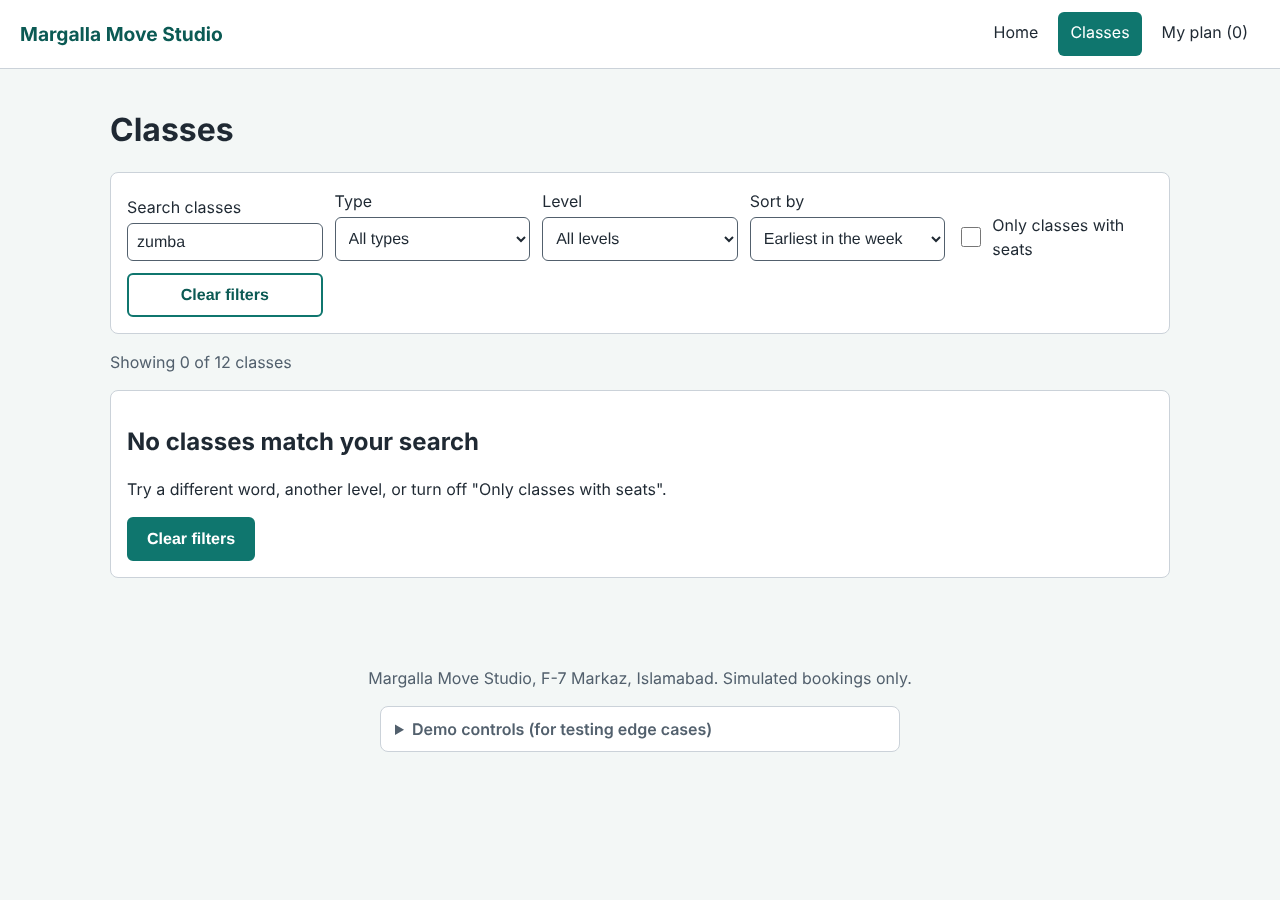
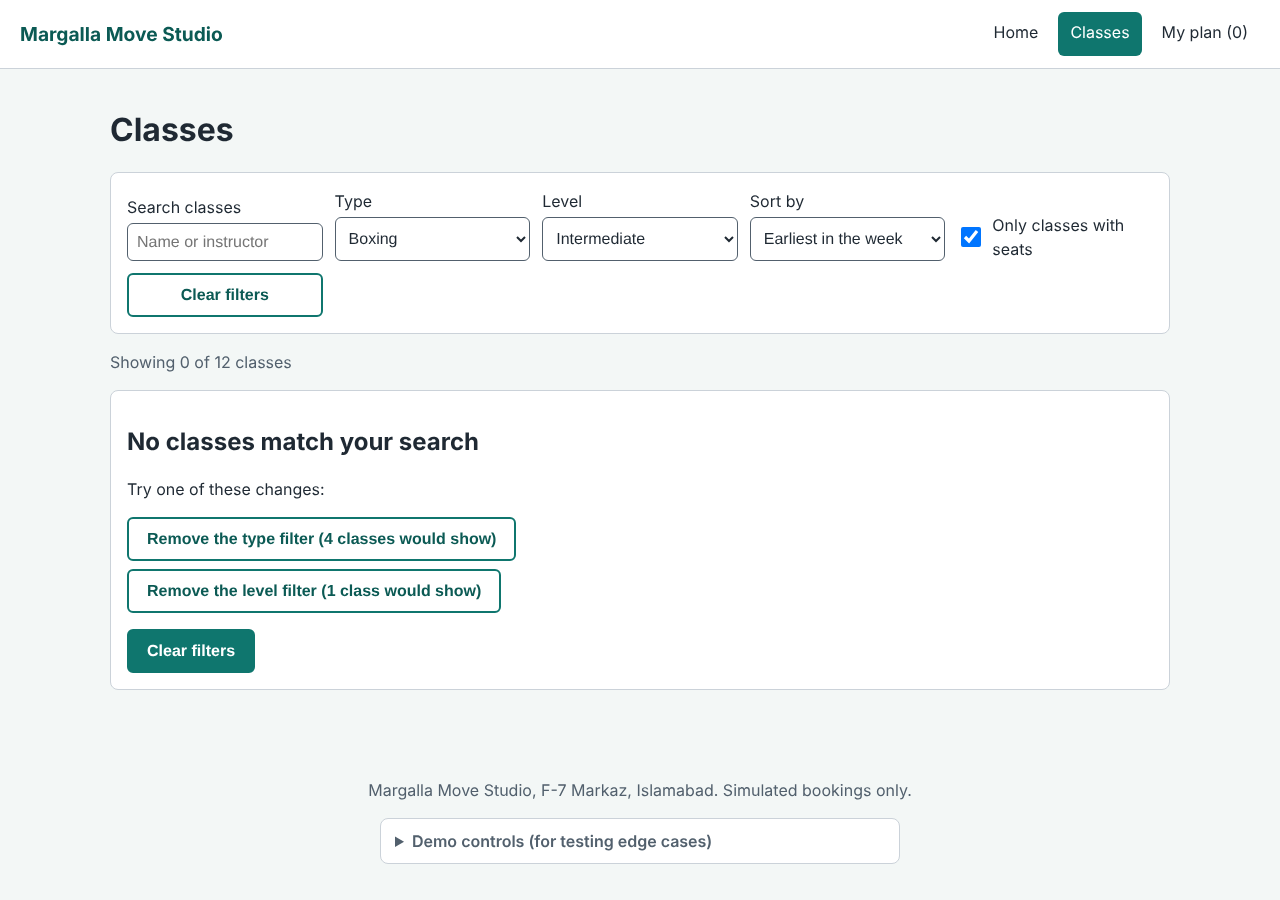
Empty results now offer ways forward; decisions use CorePower Yoga evidence

diff --git a/src/pages/Classes.jsx b/src/pages/Classes.jsx
@@ -3,7 +3,7 @@ import ClassCard from "../components/ClassCard.jsx";
 import SearchControls from "../components/SearchControls.jsx";
 import StatusMessage from "../components/StatusMessage.jsx";
 import { useStudio } from "../context/StudioContext.jsx";
-import { getVisibleClasses } from "../utils/listing.js";
+import { getRelaxSuggestions, getVisibleClasses } from "../utils/listing.js";
 
 function readOptions(params) {
   return {
@@ -56,6 +56,7 @@ function Classes() {
 
   const visible = getVisibleClasses(classes, options);
   const linkState = { from: location.search };
+  const suggestions = getRelaxSuggestions(classes, options);
 
   return (
     <section>
@@ -76,7 +77,16 @@ function Classes() {
       {classes.length > 0 && visible.length === 0 && (
         <div className="notice">
           <h2>No classes match your search</h2>
-          <p>Try a different word, another level, or turn off "Only classes with seats".</p>
+          <p>Try one of these changes:</p>
+          <ul>
+            {suggestions.map((suggestion) => (
+              <li key={suggestion.name}>
+                <button type="button" className="button button-secondary" onClick={() => changeOption(suggestion.name, "")}>
+                  Remove the {suggestion.label} ({suggestion.count === 1 ? "1 class" : suggestion.count + " classes"} would show)
+                </button>
+              </li>
+            ))}
+          </ul>
           <button type="button" className="button" onClick={clearFilters}>
             Clear filters
           </button>

diff --git a/src/utils/listing.js b/src/utils/listing.js
@@ -51,3 +51,26 @@ export function getVisibleClasses(list, options) {
   result = filterByAvailable(result, options.onlyAvailable);
   return sortClasses(result, options.sort);
 }
+
+export function getRelaxSuggestions(list, options) {
+  const suggestions = [];
+
+  if (options.q !== "") {
+    const count = getVisibleClasses(list, { ...options, q: "" }).length;
+    suggestions.push({ name: "q", label: "search text", count });
+  }
+  if (options.category !== "") {
+    const count = getVisibleClasses(list, { ...options, category: "" }).length;
+    suggestions.push({ name: "category", label: "type filter", count });
+  }
+  if (options.level !== "") {
+    const count = getVisibleClasses(list, { ...options, level: "" }).length;
+    suggestions.push({ name: "level", label: "level filter", count });
+  }
+  if (options.onlyAvailable) {
+    const count = getVisibleClasses(list, { ...options, onlyAvailable: false }).length;
+    suggestions.push({ name: "open", label: "seats filter", count });
+  }
+
+  return suggestions.filter((suggestion) => suggestion.count > 0);
+}

diff --git a/src/styles/base.css b/src/styles/base.css
@@ -482,3 +482,12 @@ input[type="checkbox"] {
     margin-top: 6px;
   }
 }
+
+.notice li {
+  margin-bottom: 8px;
+  list-style: none;
+}
+
+.notice ul {
+  padding-left: 0;
+}

diff --git a/DECISIONS.md b/DECISIONS.md
@@ -2,23 +2,23 @@
 
 Business: Margalla Move Studio (fitness class booking, Islamabad).
 
-## Decision 1: Keep search, filters and sorting in the URL (interaction and state)
+## Decision 1: Empty results offer a way forward (interaction and state)
 
 | Field | Content |
 | --- | --- |
-| Problem | After opening a class and going back, the list resets and the customer loses their search and filters. |
-| Decision | Search text, type, level, "only classes with seats" and sort are stored in the URL query string with `useSearchParams`. The details link remembers the query and "Back to classes" returns to it. Browser Back also works. |
-| Alternative | Keep the filters only in React state or in context. |
-| Reason | Customers compare several classes before booking. The URL keeps their place on refresh, Back and shared links. |
-| Tradeoff | The URL changes while typing (we use `replace` so history is not filled). Wrong values typed in the URL just show no results. |
-| Code location | `src/pages/Classes.jsx` (`readOptions`, `changeOption`), `src/components/ClassCard.jsx` (`linkState`), `src/pages/ClassDetails.jsx` (`backLink`). |
-| Evidence | Open `/classes`, choose Type = HIIT and Sort = Price low to high, click View details, then click Back to classes or the browser Back button. The same filters and order are still shown. Screenshots: `docs/screenshots/d-2-classes.png`. |
+| Problem | On the CorePower Yoga live schedule, a filter that matches nothing shows "0 classes" and "Check back soon", with no way to change it. The next day had 14 classes. |
+| Decision | When search and filters match nothing, the page lists each active filter with the number of classes that would show if it were removed. One button removes that filter. A separate message appears when the whole timetable is empty. |
+| Alternative | Show only a "Clear filters" button, or a plain "no results" message. |
+| Reason | The customer sees which filter is the problem and fixes it in one click, so the search does not end in a dead end. |
+| Tradeoff | The page recalculates the list once for each active filter, and the wording must stay clear when counts are 1. |
+| Code location | `src/utils/listing.js` (`getRelaxSuggestions`), `src/pages/Classes.jsx` (no-match block, `changeOption`). |
+| Evidence | Open `/classes?category=Boxing&level=Intermediate&open=1`. The page says no classes match and offers "Remove the type filter (4 classes would show)" and "Remove the level filter (1 class would show)". Click the level button and the Boxing list returns. Screenshots: `docs/screenshots/d-3-nomatch.png`, `docs/screenshots/m-3-nomatch.png`. |
 
 ## Decision 2: Show the choosing facts on every class card (information hierarchy and mobile layout)
 
 | Field | Content |
 | --- | --- |
-| Problem | Listings leave out the facts needed to compare options (price, seats left, level), so customers must open every page. |
+| Problem | On the CorePower Yoga live schedule, each row shows only time, a coded class name (for example "C2" or "YS1") and the teacher. Price, level and seats are not shown. |
 | Decision | Each card shows name, type, level, day, time, length, price per person and a text badge for seats left or "Full". On phones (520 px and below) the cards become one column and buttons become full width. |
 | Alternative | Show only name and picture on the card and put the other facts on the details page. |
 | Reason | Price, level and seats decide whether a class is suitable. Showing them at once saves clicks and avoids opening full classes. |
@@ -30,7 +30,7 @@ Business: Margalla Move Studio (fitness class booking, Islamabad).
 
 | Field | Content |
 | --- | --- |
-| Problem | Limits and charges appear late, so customers find out at the end of the booking that they cannot continue. |
+| Problem | On the CorePower Yoga live schedule every class has a Book button, but pressing it shows "You need to be a member or have classes in your account to book this class". The condition appears only after the click. |
 | Decision | The details page lists the attendee limit, the level requirement and the group discount beside the attendees field. The field checks the number live with a specific message and shows the price for this class. The plan page checks the saved plan again against current data. |
 | Alternative | Only show errors when the customer presses Confirm at checkout. |
 | Reason | Customers fix a mistake at the moment they make it and know the real price early. This supports the business goal of completed bookings. |

diff --git a/README.md b/README.md
@@ -49,7 +49,7 @@ Open "Demo controls" in the page footer, change a setting, then press "Reload ti
 - Loading failure: tick "Make loading fail", reload. An error and a "Try again" button appear. Untick the setting and press "Try again".
 - Changed availability: add HIIT Burn with 3 attendees to the plan, tick "Change seats", reload, open My plan. The conflict is explained and can be fixed with one button. Power Yoga becomes full.
 - Empty timetable: tick "Empty timetable", reload, open Classes.
-- No matches: search for "zumba" on the Classes page.
+- No matches: open `/classes?category=Boxing&level=Intermediate&open=1`. The page offers buttons that remove one filter and shows how many classes would appear.
 - Invalid URL: open `/classes/unknown`.
 - Missing image: the "Weekend Restore" class has no image and shows a text fallback.
 - Long content: "Mat Pilates Foundations" has a long instructor name and description.
